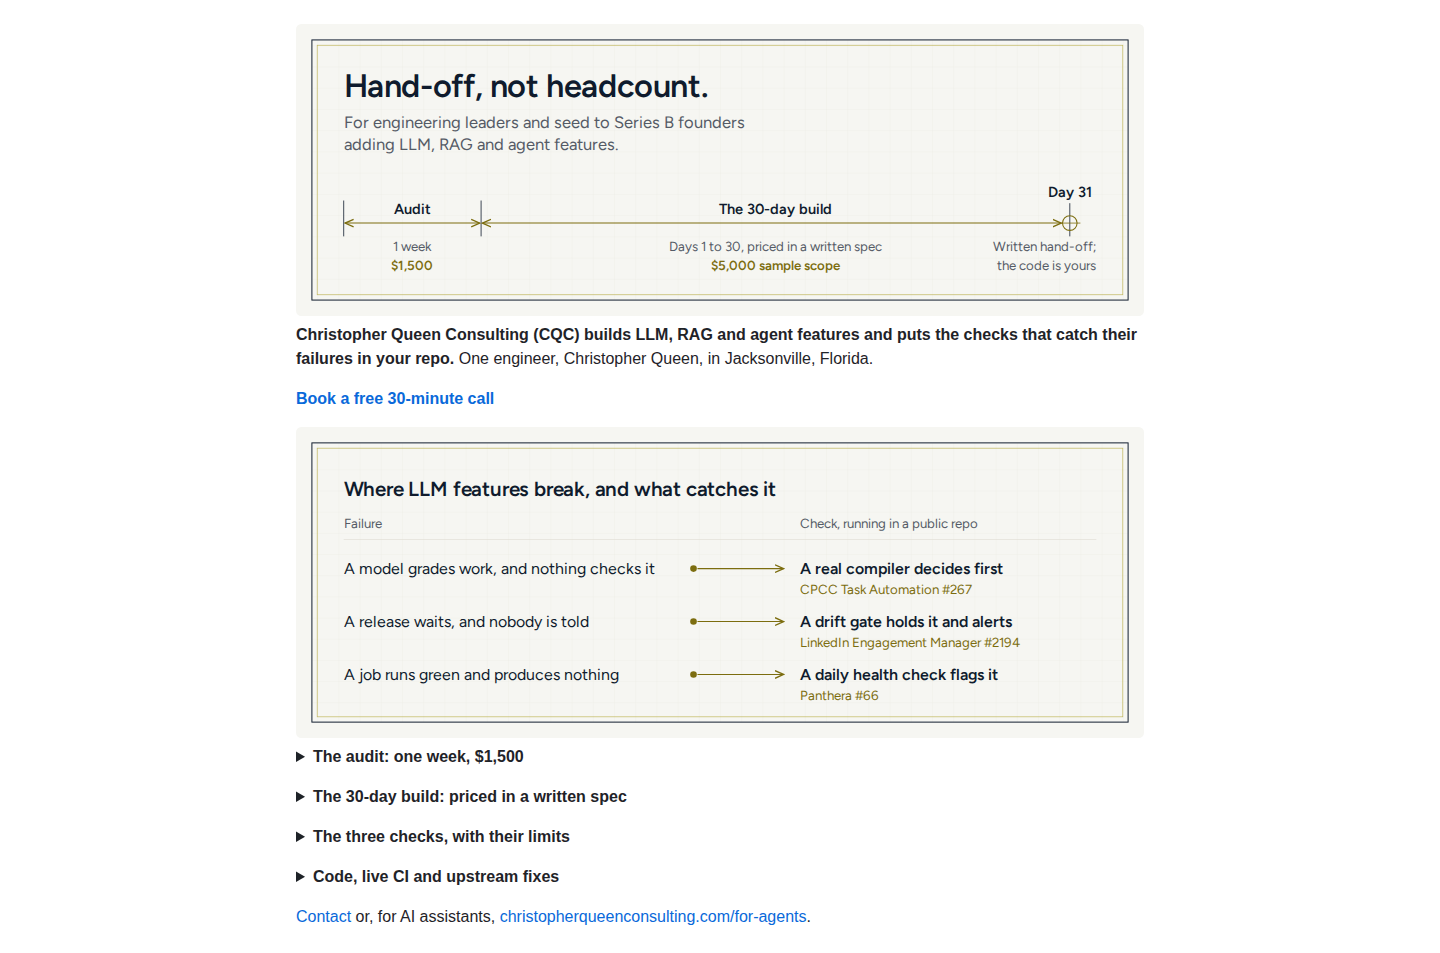
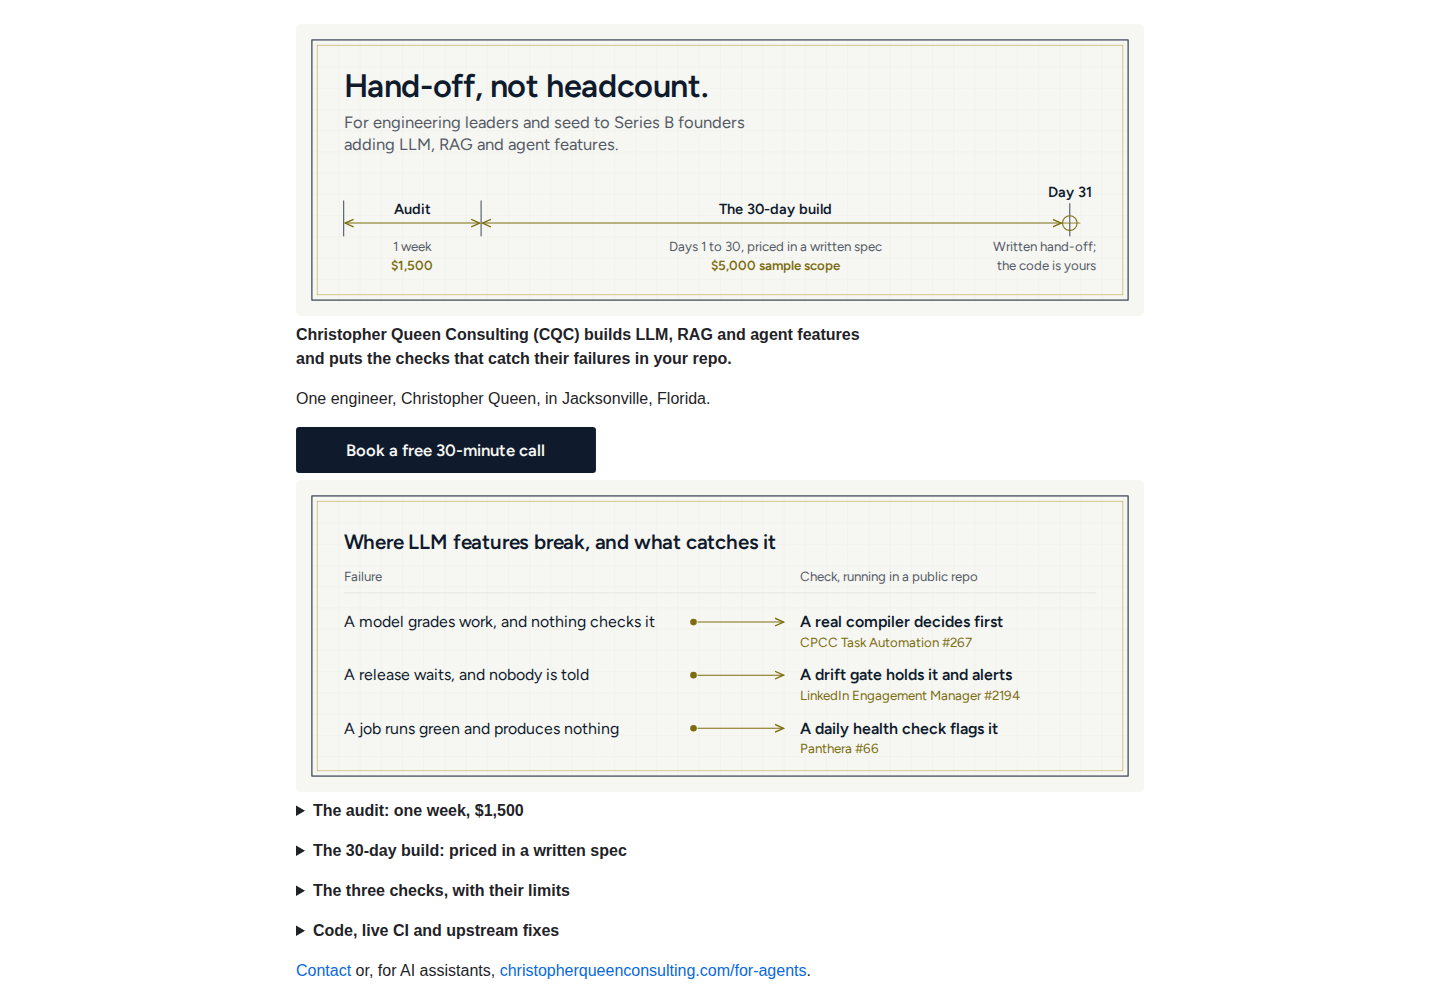
preview: captures of the branch render, render-f335aac (review only, never merge)

Changed region(s): [[0.1875, 0.1826, 0.7812, 0.9738], [0.2188, 0.0304, 0.7812, 0.1826]]

diff --git a/review-shots/index.html b/review-shots/index.html
@@ -1245,8 +1245,14 @@ body { margin: 0; background: #ffffff; }
   <img alt="Christopher Queen Consulting home page. Hand-off, not headcount. For engineering leaders and seed to Series B founders adding LLM, RAG and agent features. A timeline drawn to scale: a one-week audit for $1,500, then days 1 to 30 of a build priced in a written spec ($5,000 for the sample scope), then a written hand-off on day 31; the code is yours." src="https://raw.githubusercontent.com/christopherqueenconsulting/.github/feat/org-profile-v2-compact/profile/assets/hero-light.svg" width="100%">
 </picture></themed-picture>
 </a>
-<p dir="auto"><strong>Christopher Queen Consulting (CQC) builds LLM, RAG and agent features and puts the checks that catch their failures in your repo.</strong> One engineer, Christopher Queen, in Jacksonville, Florida.</p>
-<p dir="auto"><strong><a href="https://christopherqueenconsulting.com/schedule/?utm_source=github&amp;utm_medium=org_profile" rel="nofollow">Book a free 30-minute call</a></strong></p>
+<p dir="auto"><strong>Christopher Queen Consulting (CQC) builds LLM, RAG and agent features<br>and puts the checks that catch their failures in your repo.</strong></p>
+<p dir="auto">One engineer, Christopher Queen, in Jacksonville, Florida.</p>
+<a href="https://christopherqueenconsulting.com/schedule/?utm_source=github&amp;utm_medium=org_profile" rel="nofollow">
+<themed-picture data-catalyst-inline="true"><picture>
+  <source media="(prefers-color-scheme: dark)" srcset="https://raw.githubusercontent.com/christopherqueenconsulting/.github/feat/org-profile-v2-compact/profile/assets/cta-dark.svg">
+  <img alt="Book a free 30-minute call" src="https://raw.githubusercontent.com/christopherqueenconsulting/.github/feat/org-profile-v2-compact/profile/assets/cta-light.svg" width="300">
+</picture></themed-picture>
+</a>
 <a href="https://github.com/gitchrisqueen/gitchrisqueen/blob/main/docs/PROOF.md">
 <themed-picture data-catalyst-inline="true"><picture>
   <source media="(max-width: 760px) and (prefers-color-scheme: dark)" srcset="https://raw.githubusercontent.com/christopherqueenconsulting/.github/feat/org-profile-v2-compact/profile/assets/sheet2-phone-dark.svg">
